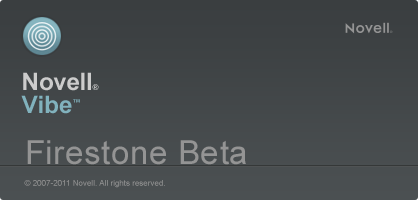
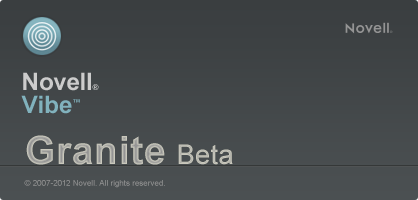
Bug: PRD Reviewer: Lynn Comment: updated the about screen to "Granite Beta." Also added minor updates to the dialog border style to increase the size from 6px to 8px. Changed the transparency of the tree view menu to 50 %.

Changed region(s): [[0.0622, 0.66, 0.5909, 0.84], [0.1555, 0.9, 0.1866, 0.93]]

diff --git a/ssf/gwt/src/org/kablink/teaming/gwt/public/GwtTeaming.css b/ssf/gwt/src/org/kablink/teaming/gwt/public/GwtTeaming.css
@@ -1549,7 +1549,7 @@ body, table td, select
 }
 .mainBreadCrumb_Browser
 {
-	background: url(images/trans70_black.png) repeat;
+	background: url(images/trans50_black.png) repeat;
 	border: 0px;
 	padding: 0px;
 	right: 20px;
@@ -1558,7 +1558,7 @@ body, table td, select
 .breadCrumb_Browser
 {
 	background-color: #f6f6f6;
-	margin: 0 5px 5px;
+	margin: 0 8px 8px;
 	border-top: 1px solid #808384;
 	-moz-border-radius-bottomleft: 3px;
 	-moz-border-radius-bottomright: 3px;
@@ -1808,7 +1808,7 @@ body, table td, select
 }
 .mainMenuSearchOptions_Browser
 {
-	background: url(images/trans70_black.png) repeat;
+	background: url(images/trans50_black.png) repeat;
 	border: 0px;
 	padding: 0px;
 	z-index: 351;
@@ -1858,7 +1858,7 @@ body, table td, select
 	color: #333 !important;
 	font-size: .85em;
 	background-color: #f6f6f6;
-	margin: 0 5px 5px;
+	margin: 0 8px 8px;
 	border-top: 1px solid #808384;
 	-moz-border-radius-bottomleft: 3px;
 	-moz-border-radius-bottomright: 3px;
@@ -2469,7 +2469,7 @@ body, table td, select
 {
 	font-family: Arial,Helvetica,sans-serif;
 	background: url(images/trans30_black.png) repeat;
-	padding: 6px;
+	padding: 8px;
 	-moz-border-radius: 6px;
 	-webkit-border-radius: 6px;
 	z-index: 1001;
